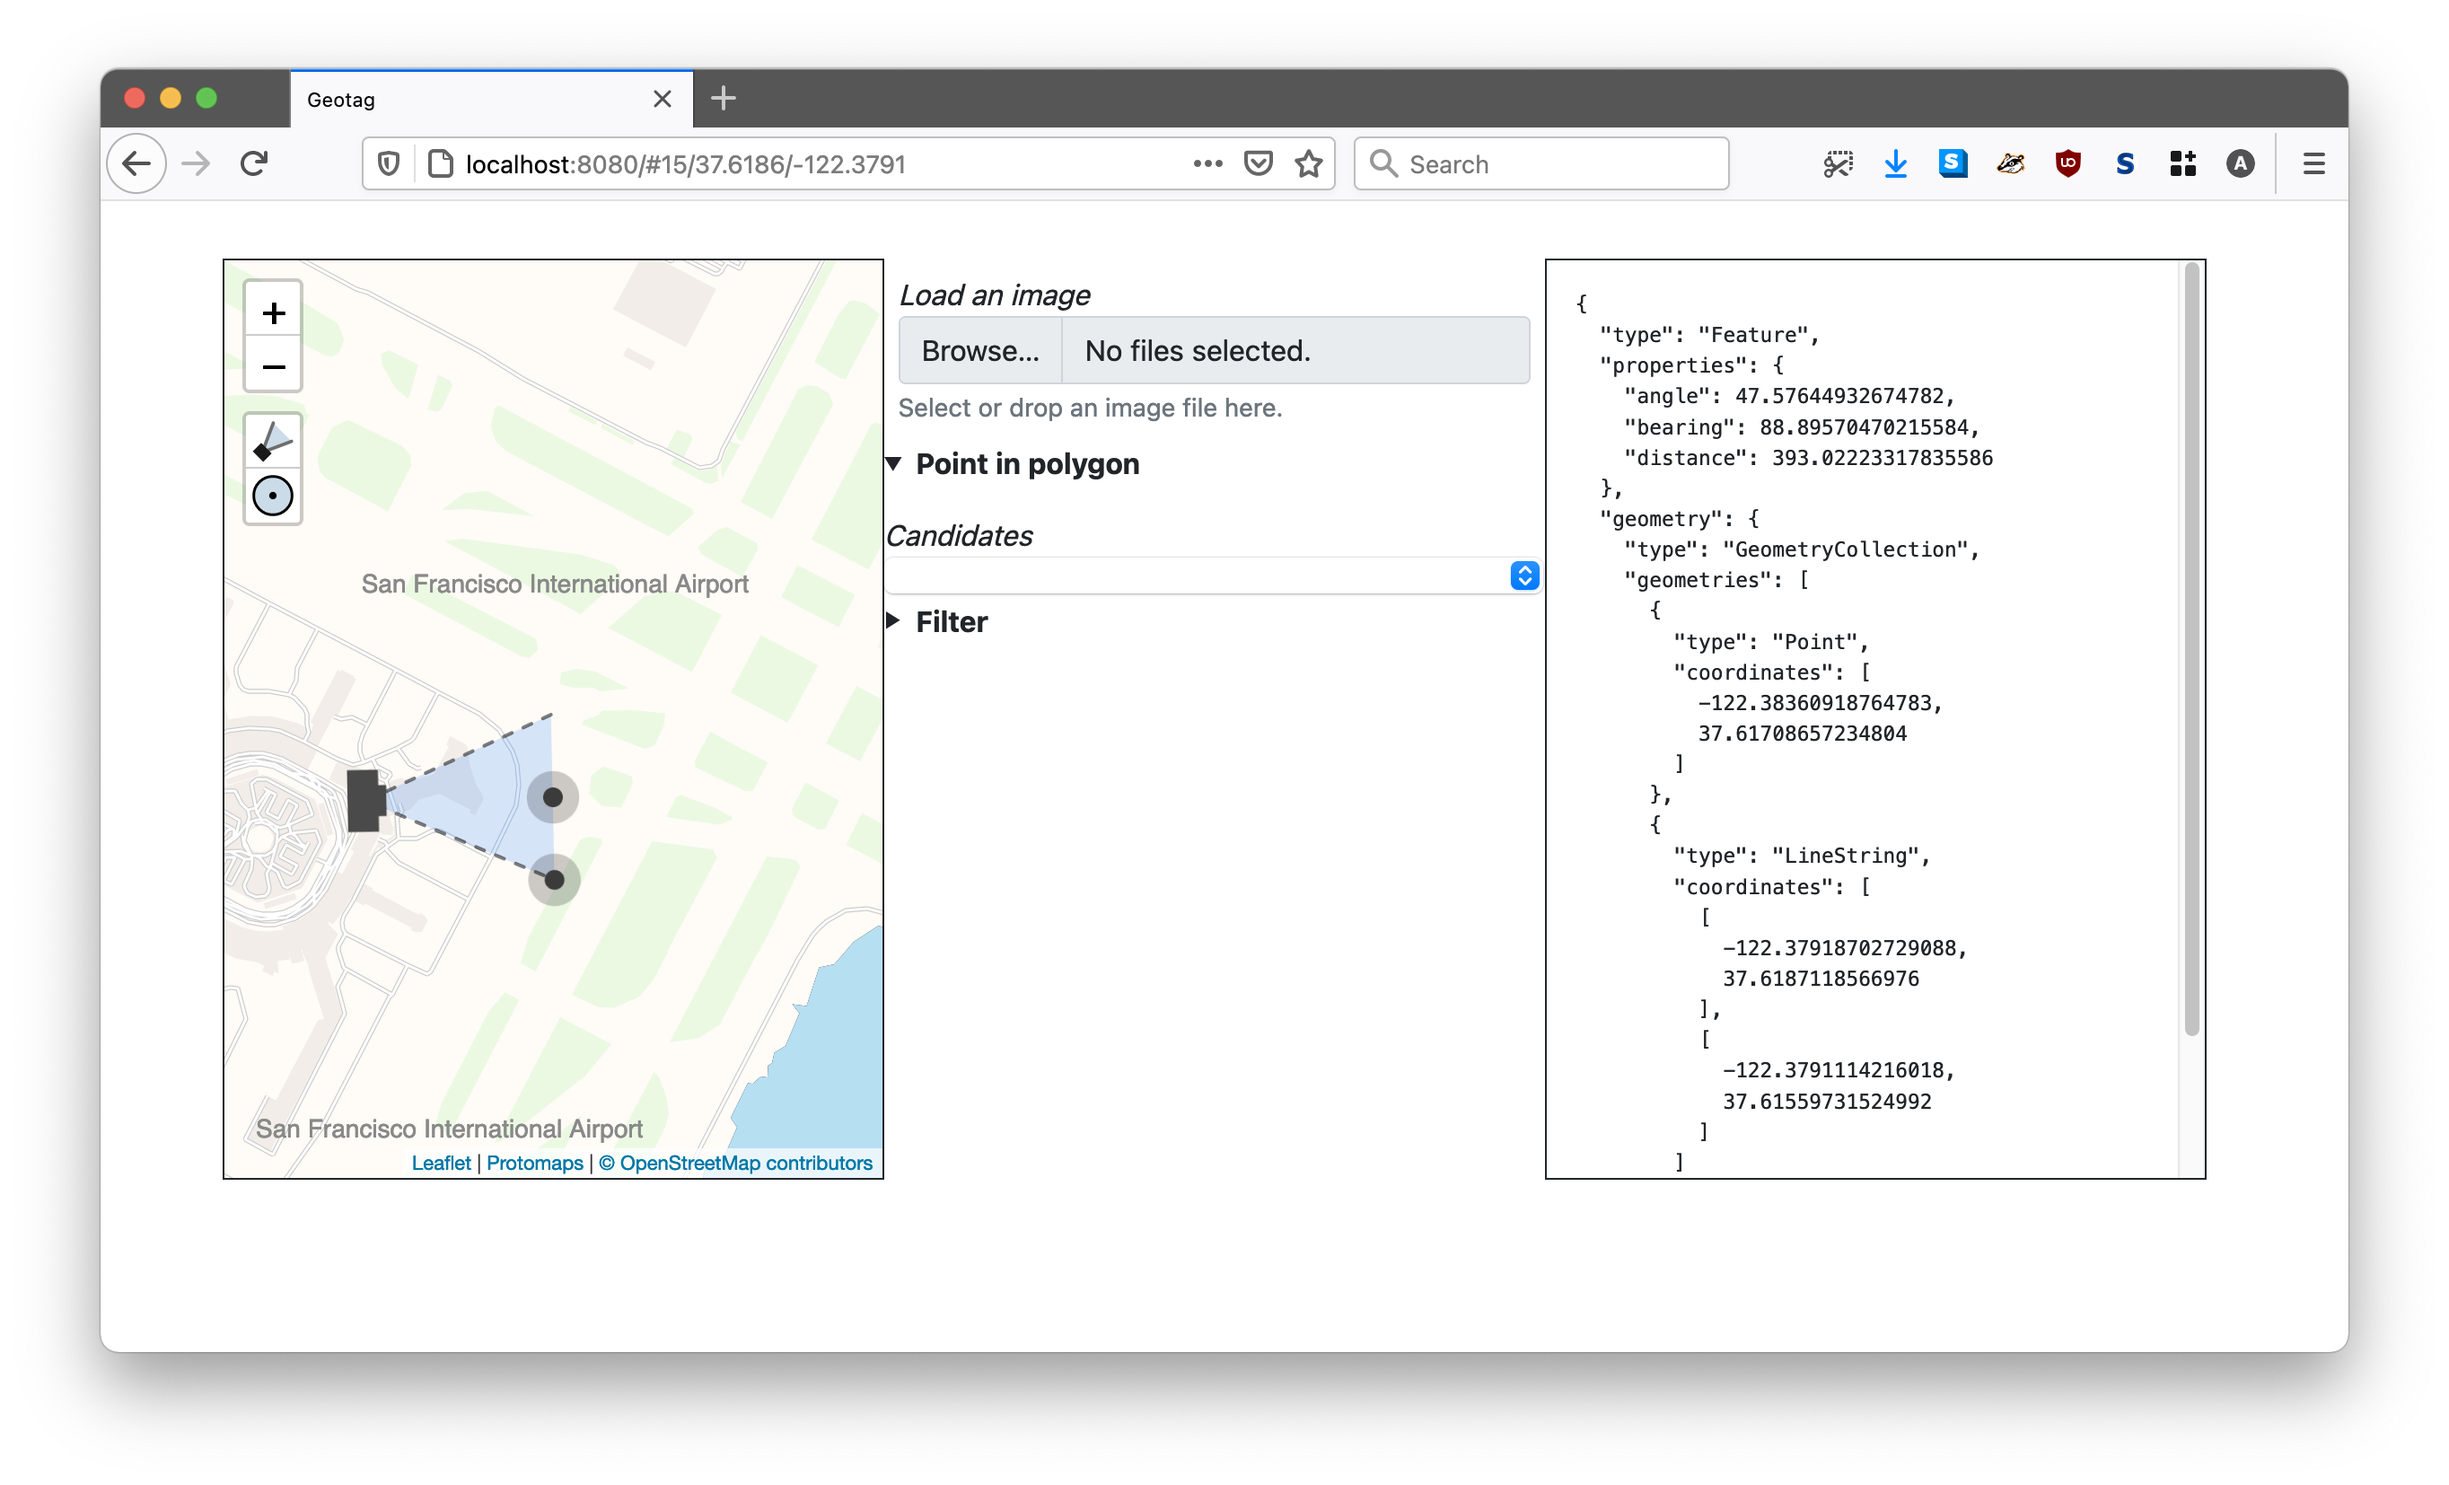
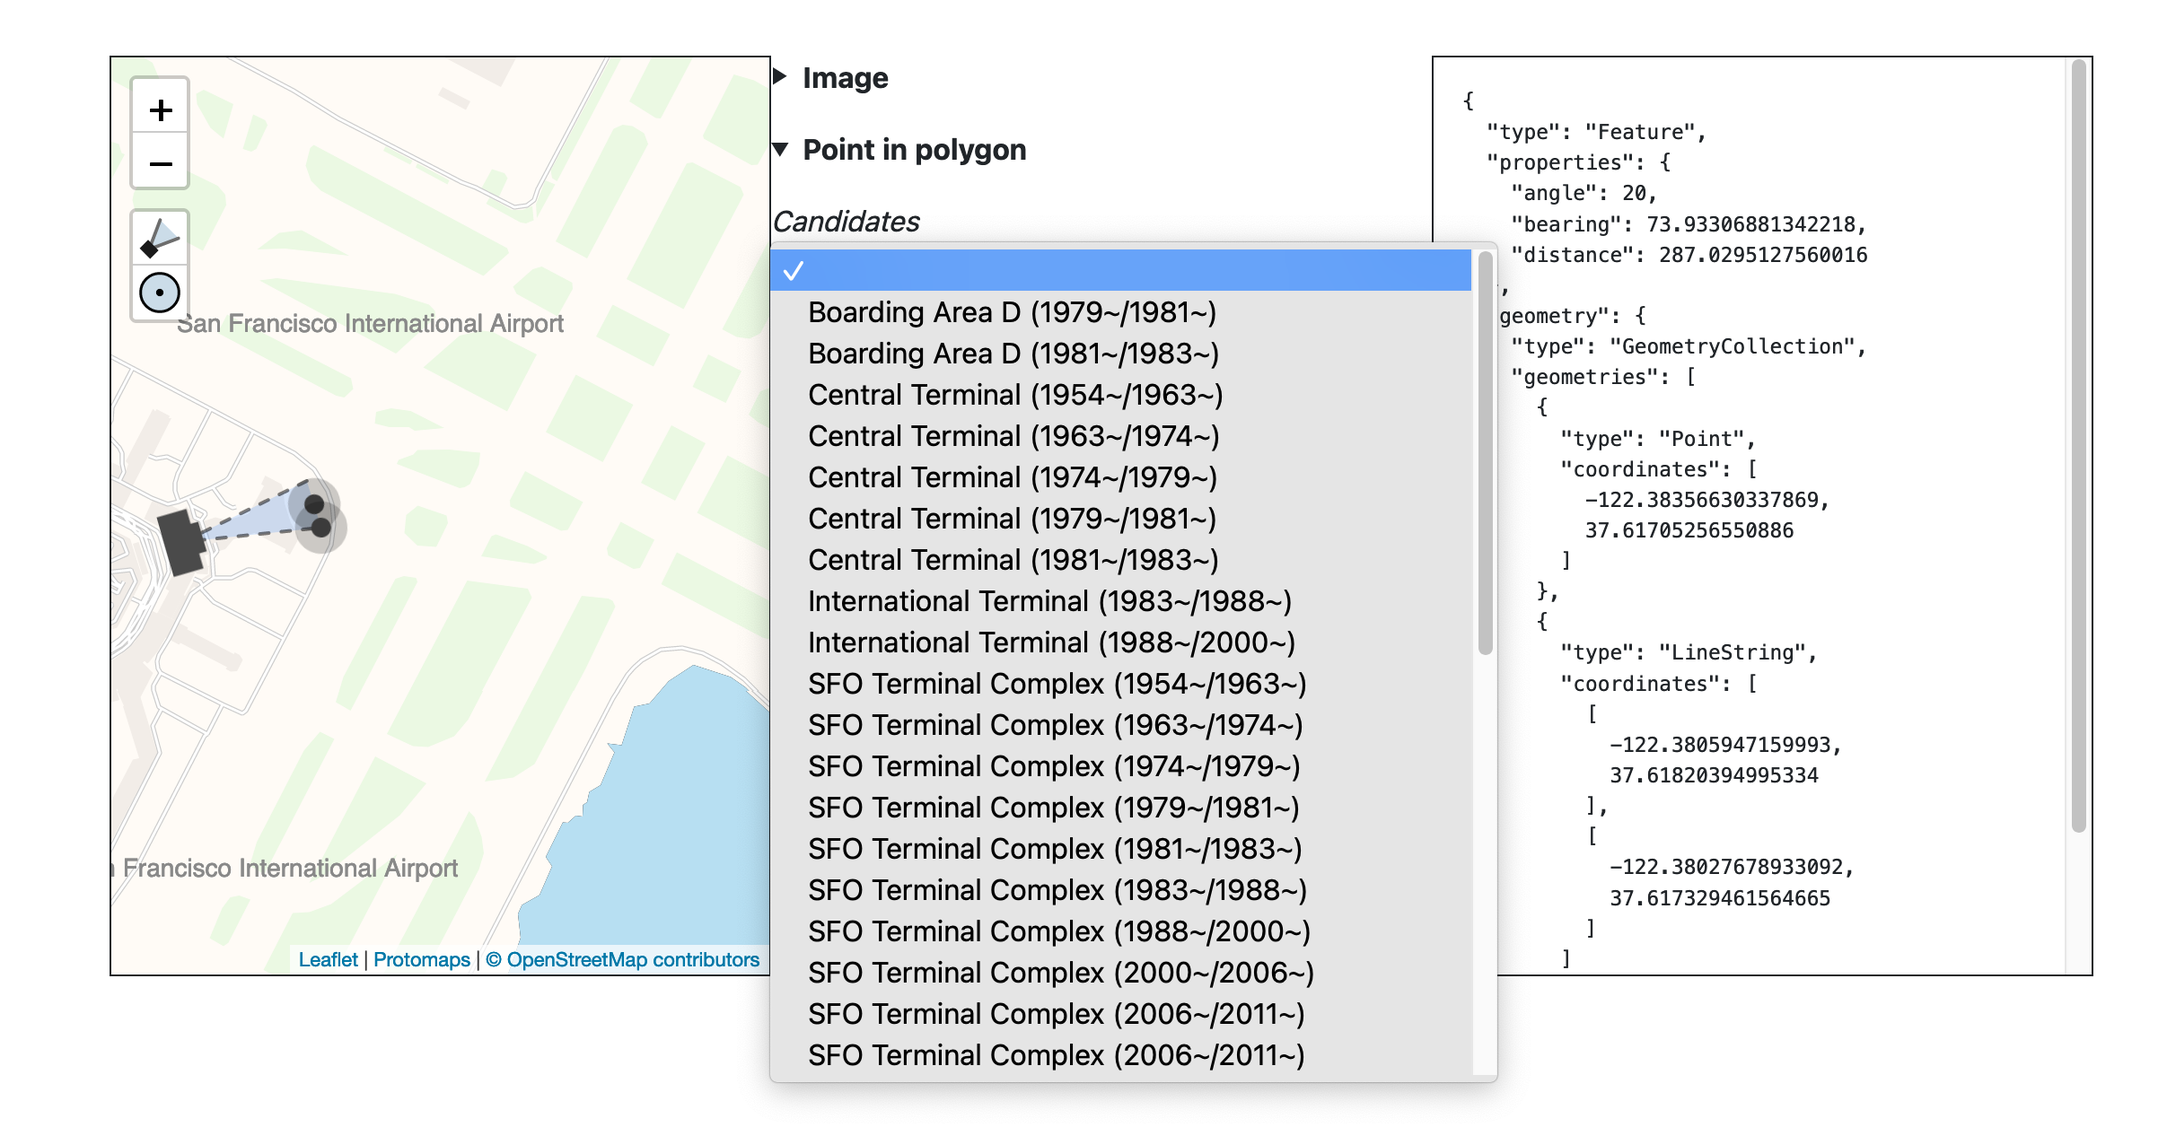
put image stuff back in details el

diff --git a/templates/html/editor.html b/templates/html/editor.html
@@ -11,39 +11,43 @@
     <div class="col" id="col-controls">
 
 	<div id="controls">
-	   
-	    <div>
+
+	<details class="control">
+		<summary>Image</summary>
+	    
 		<div>
-		    <!-- TO DO: https://getbootstrap.com/docs/5.0/components/carousel/ -->
-		    <!-- See also: geotag.editor.init.js -->
-		    <div id="image-wrapper"></div>
-		    <div id="image-meta"></div>
+		    <div>
+			<!-- TO DO: https://getbootstrap.com/docs/5.0/components/carousel/ -->
+			<!-- See also: geotag.editor.init.js -->
+			<div id="image-wrapper"></div>
+			<div id="image-meta"></div>
+		    </div>
+		    
+		    <div class="image-form">
+			<form class="form">
+			    
+			    <div class="form-group">
+				<label for="file-attachment">Load an image</label>
+				<!-- https://github.com/github/file-attachment-element -->
+				<file-attachment input="file" id="file-attachment">
+				    <input type="file" id="file" multiple class="form-control" />
+				</file-attachment>
+				<small id="file-attachment-help" class="form-text text-muted">Select or drop an image file here.</small>					    
+			    </div>
+			    
+			    {{ if .EnableOEmbed }}			
+			    <div class="form-group">
+				<label for="oembed-url">Fetch an image</label>					
+				<input class="form-control mr-sm-2" type="search" name="oembed-url" id="oembed-url" placeholder="Enter a URL to retrieve" value="" aria-label="Fetch" aria-describedby="oembed-url-help" />
+				<small id="oembed-url-help" class="form-text text-muted">A valid OEmbed URL for retrieving an image to display.</small>		
+			    </div>
+			    <button class="btn btn-primary pull-right" type="submit" id="oembed-fetch">Fetch</button>
+			    {{ end }}
+			    
+			</form>
+		    </div>
 		</div>
-		
-		<div class="image-form">
-		    <form class="form">
-
-			<div class="form-group">
-			    <label for="file-attachment">Load an image</label>
-			    <!-- https://github.com/github/file-attachment-element -->
-			    <file-attachment input="file" id="file-attachment">
-				<input type="file" id="file" multiple class="form-control" />
-			    </file-attachment>
-			    <small id="file-attachment-help" class="form-text text-muted">Select or drop an image file here.</small>					    
-			</div>
-
-			{{ if .EnableOEmbed }}			
-			<div class="form-group">
-			    <label for="oembed-url">Fetch an image</label>					
-			    <input class="form-control mr-sm-2" type="search" name="oembed-url" id="oembed-url" placeholder="Enter a URL to retrieve" value="" aria-label="Fetch" aria-describedby="oembed-url-help" />
-			    <small id="oembed-url-help" class="form-text text-muted">A valid OEmbed URL for retrieving an image to display.</small>		
-			</div>
-			<button class="btn btn-primary pull-right" type="submit" id="oembed-fetch">Fetch</button>
-			{{ end }}
-			
-		    </form>
-		</div>
-	    </div>
+	</details>
 	
 	{{ if .EnablePointInPolygon }}
 
